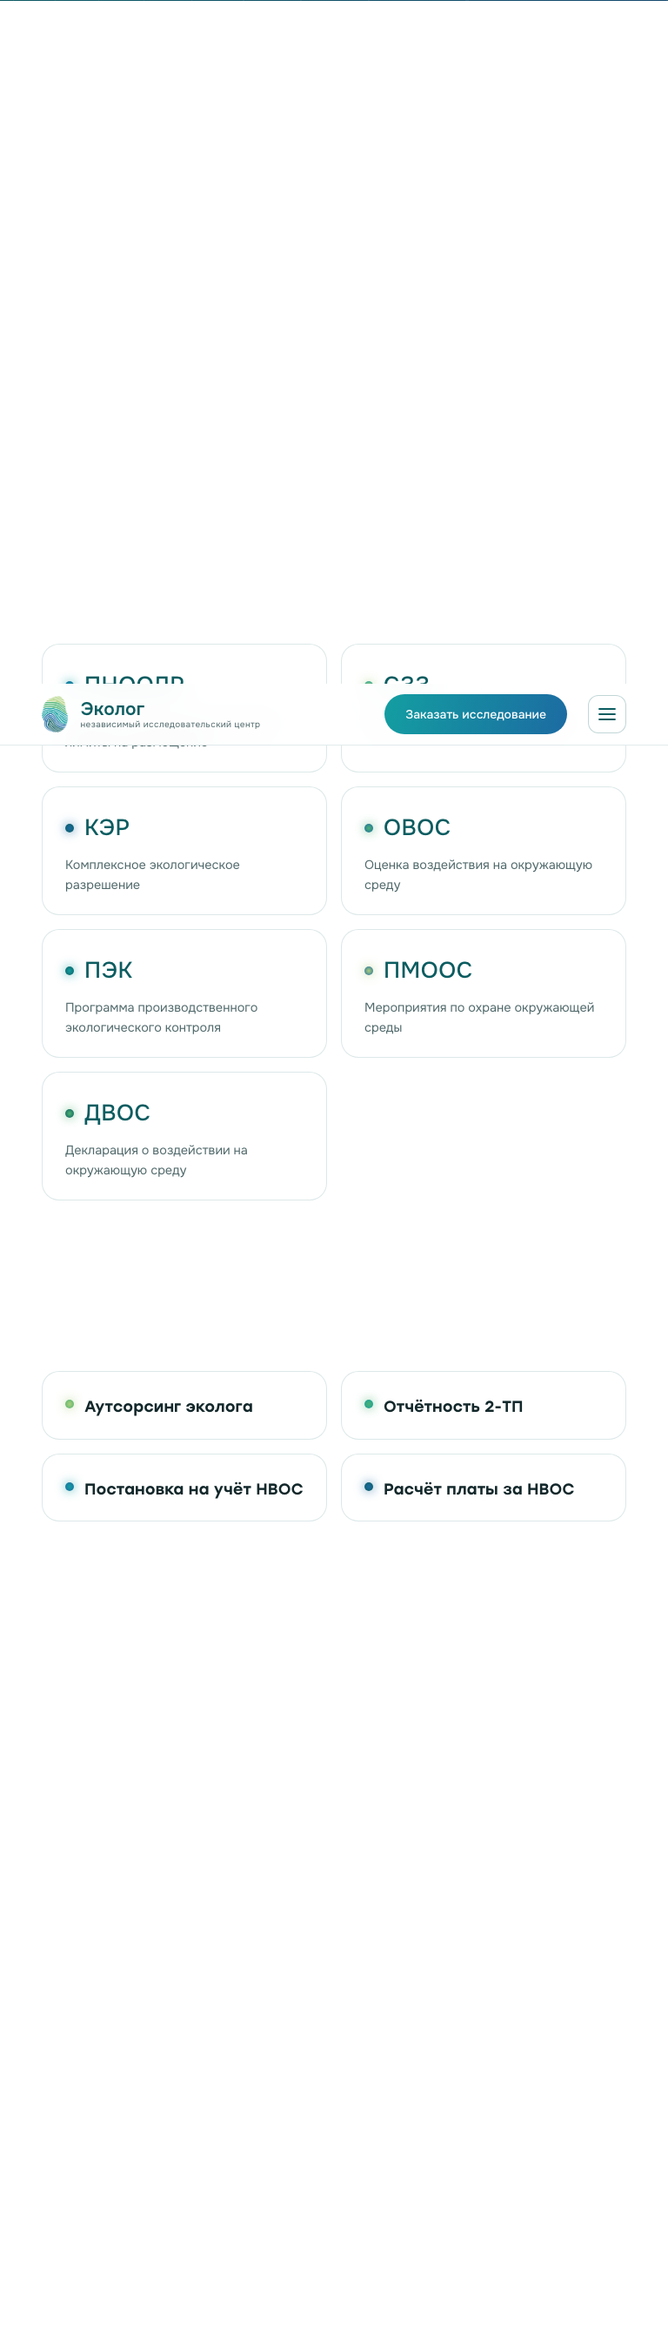
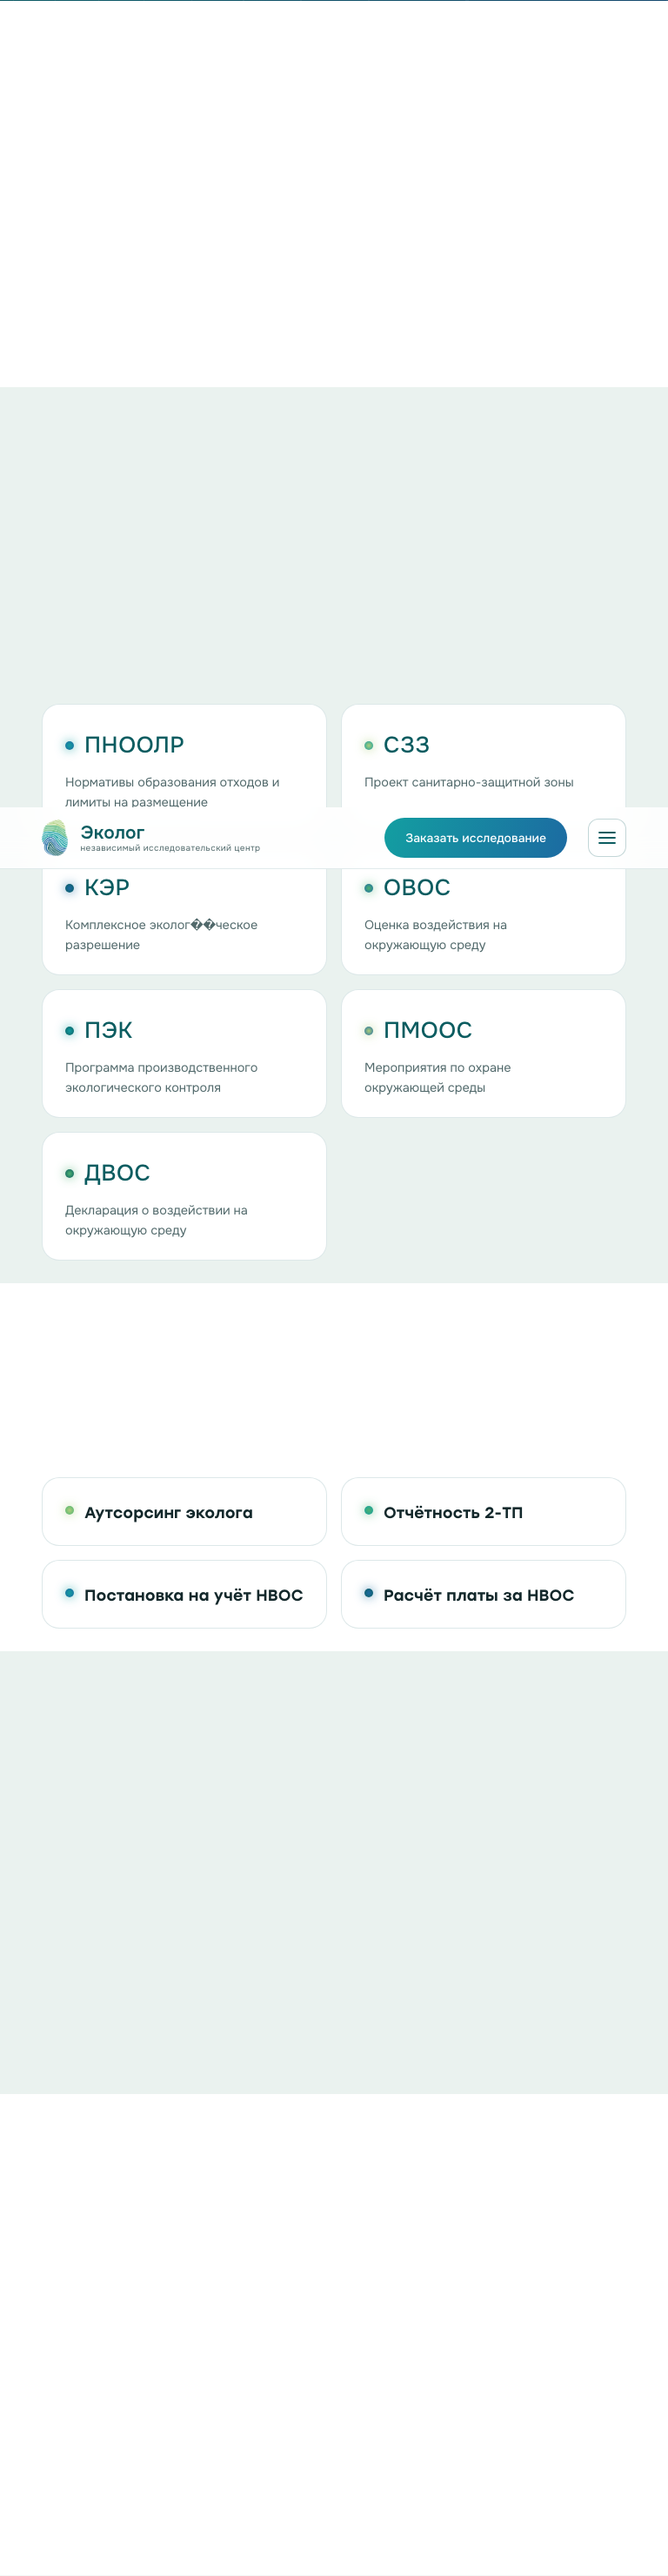
Документировать мобильный аудит и актуализировать mobile.md под v0
Добавить проверку visual clip в mobile-audit и обновить скриншоты; в mobile.md зафиксировать стек карточек ≤560 и степпер/CTA от v0.

diff --git a/design-system/pages/mobile.md b/design-system/pages/mobile.md
@@ -49,18 +49,22 @@ Tokens: `tokens/responsive.css` (imports `spacing.css`, switches `--section-pad-
 - Meta line `[data-hero-meta]`: 11px, relaxed line-height
 - CTA row `[data-cta-row]`: column stack, links `width: 100%`
 
-### Lab `#lab`
+### Lab `#lab` / homepage `#laboratoriya`
 
-- `padding-top`: ~**100px** at ≤720px
-- `.lab-cta-row`: column stack (no inline `margin-left` on second link)
-- `.lab-chips`: `max-width: 100%`, `flex-wrap`
+- `padding-top`: ~**100–116px** at ≤720px (fixed header + safe area)
+- H1: `clamp(29px, 8vw, 42px)` on ≤720px
+- Capability grid: **2 колонки**, на ≤560 → **1 колонка** (v0)
+- Process chips: вертикальный степпер с шевронами (не поворот стрелок)
+- CTA: pill-кнопки на мобиле (ghost + filled)
+- `.lab-chips` / меню: скролл на низких экранах (`max-height:720`)
 
 ---
 
 ## Sections
 
 - Vertical padding at ≤720px: **80px** (was 120–130px inline)
-- Services grid (lab): **3 → 2 → 1** columns at default / 1060 / 720
+- Services grid (lab `.srv-grid`): **3 → 2 → 1** columns at default / 1060 / 720
+- Lab capability cards: 2-col → 1-col at ≤560
 - Footer grid: **4 → 2 → 1** (home: 1060 / 720+480; lab: 1060 / 560)
 
 ---
@@ -84,5 +88,9 @@ Tokens: `tokens/responsive.css` (imports `spacing.css`, switches `--section-pad-
 npm run pages:build
 npm run mobile:audit
 ```
+
+Audit checks:
+1. `documentElement.scrollWidth` vs viewport (classic overflow)
+2. **Visual clip** — content `getBoundingClientRect().right` past viewport inside key sections (catches `overflow: hidden` / `overflow-x: clip` cases)
 
 Screenshots: `screenshots/mobile-audit/`. CI: `.github/workflows/mobile-audit.yml`.
